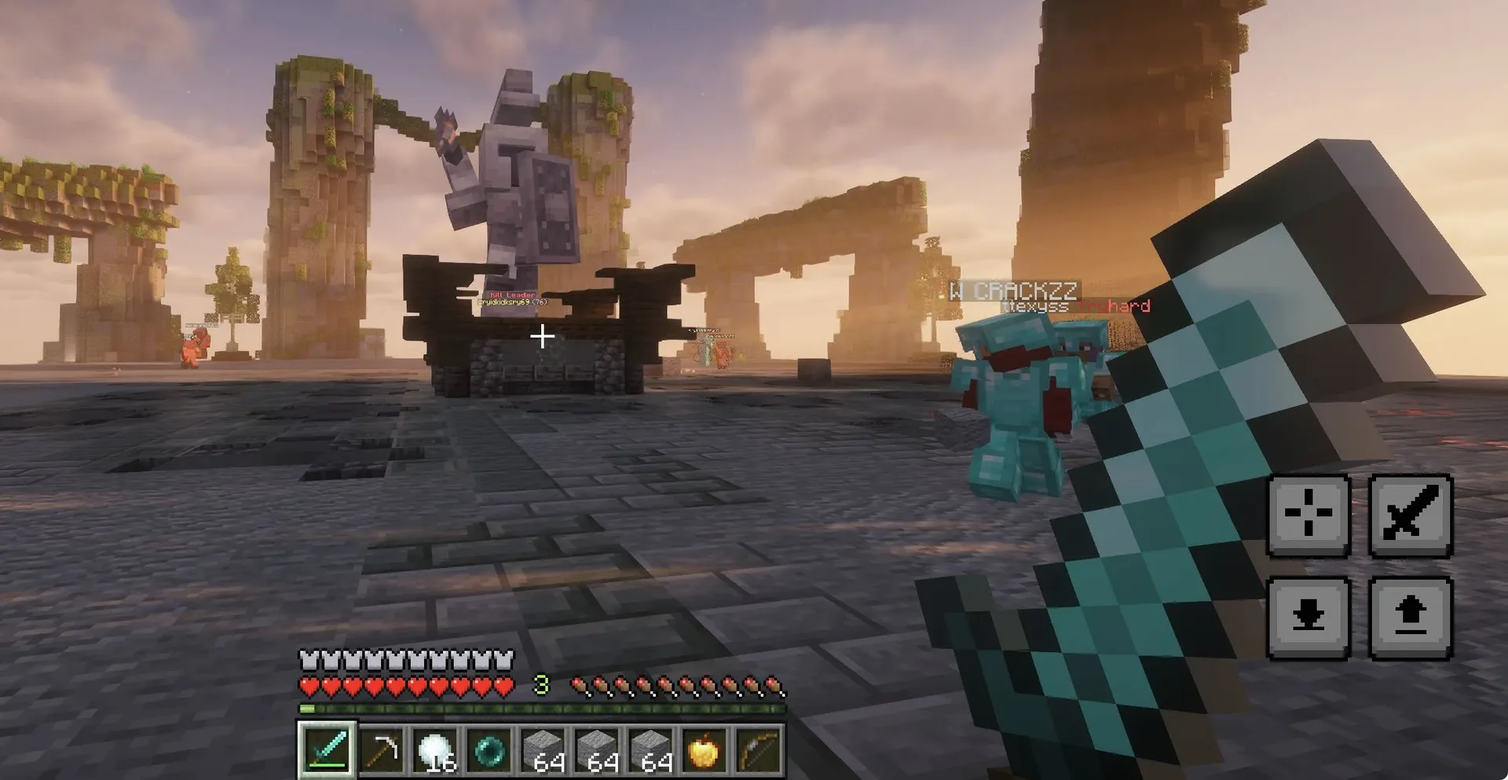
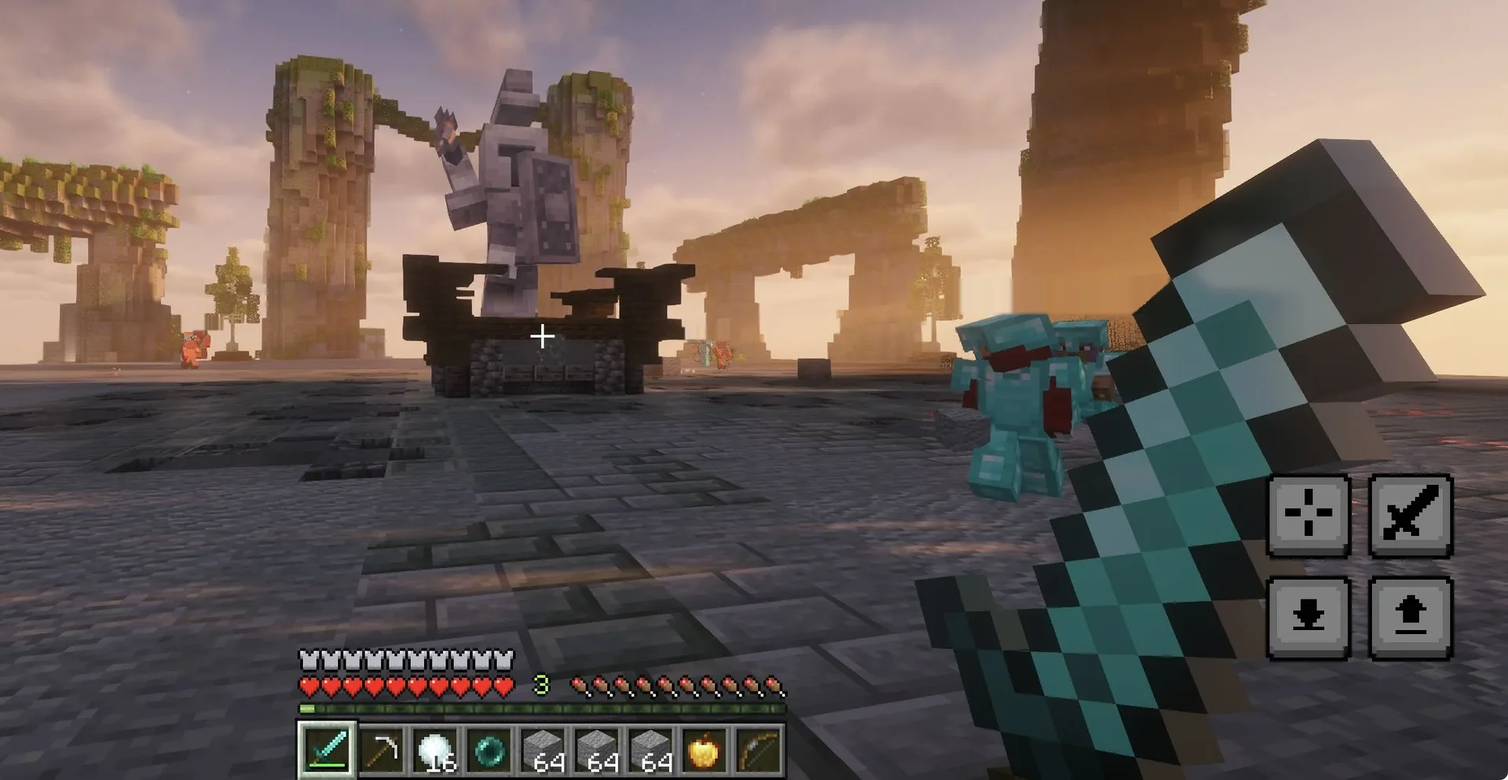
Fix the redesign's remaining issues and reduce its scale
Stop captures and type growing on large displays, remove other players'
names and a server scoreboard from the gameplay captures, and fix the
listed install dialog, docs navigation and keyboard gaps.

diff --git a/docs-theme/cinnabar.css b/docs-theme/cinnabar.css
@@ -96,7 +96,7 @@ html .page #mdbook-menu-bar { position: fixed; top: 0 !important; left: calc(var
 .section { padding-inline-start: 14px; }
 
 /* Reading column. */
-.content { padding: 56px 0 64px; overflow-y: visible; font-size: 17px; line-height: 1.68; }
+.content { padding: 56px 0 64px; overflow-y: visible; font-size: 16px; line-height: 1.65; }
 .content main { max-width: var(--content-max-width); color: var(--fg); }
 .content p, .content ol, .content ul { line-height: 1.68; }
 .content li { margin-block: 6px; }
@@ -104,13 +104,13 @@ html .page #mdbook-menu-bar { position: fixed; top: 0 !important; left: calc(var
 :target { scroll-margin-top: calc(var(--site-header-height) + 24px); }
 h1:target::before, h2:target::before, h3:target::before, h4:target::before, h5:target::before, h6:target::before, dt:target::before { display: none; }
 .content h1, .content h2, .content h3, .content h4, .content h5 { color: var(--ink); font-family: var(--sans); text-wrap: balance; }
-.content h1 { margin: 0 0 16px; font-size: clamp(34px, 4vw, 46px); font-weight: 700; line-height: 1.08; letter-spacing: -.032em; }
-.content h1 + p { color: var(--soft); font-size: 19px; line-height: 1.55; }
-.content h2 { margin-block: 56px 16px; padding-top: 40px; border-top: 1px solid var(--line); font-size: 28px; font-weight: 700; line-height: 1.18; letter-spacing: -.022em; }
-.content h3 { margin-block: 40px 12px; font-size: 21px; font-weight: 700; line-height: 1.25; letter-spacing: -.014em; }
-.content h4, .content h5 { margin-block: 32px 8px; font-size: 17px; font-weight: 700; line-height: 1.3; }
-.content .header:hover::after { content: "#"; margin-left: .35em; color: var(--quiet); font-weight: 400; }
-.content a:not(.header):not(.mobile-nav-chapters) { text-decoration: underline; text-decoration-color: #f27a6359; text-decoration-thickness: 1px; text-underline-offset: 3px; transition: text-decoration-color .15s ease-out; }
+.content h1 { margin: 0 0 16px; font-size: clamp(30px, 2.8vw, 38px); font-weight: 700; line-height: 1.08; letter-spacing: -.032em; }
+.content h1 + p { color: var(--soft); font-size: 17px; line-height: 1.55; }
+.content h2 { margin-block: 56px 16px; padding-top: 40px; border-top: 1px solid var(--line); font-size: 24px; font-weight: 700; line-height: 1.18; letter-spacing: -.022em; }
+.content h3 { margin-block: 40px 12px; font-size: 18px; font-weight: 700; line-height: 1.25; letter-spacing: -.014em; }
+.content h4, .content h5 { margin-block: 32px 8px; font-size: 16px; font-weight: 700; line-height: 1.3; }
+.content .header:hover::after, .content .header:focus-visible::after { content: "#"; margin-left: .35em; color: var(--quiet); font-weight: 400; }
+.content a:not(.header):not(.mobile-nav-chapters) { text-decoration: underline; text-decoration-color: color-mix(in srgb, var(--red-text) 35%, transparent); text-decoration-thickness: 1px; text-underline-offset: 3px; transition: text-decoration-color .15s ease-out; }
 .content a:not(.header):not(.mobile-nav-chapters):hover { text-decoration-color: currentColor; }
 .content hr { height: 1px; margin-block: 40px; border: 0; background: var(--line); }
 
@@ -174,15 +174,19 @@ ul#mdbook-searchresults span.teaser em { color: var(--ink); font-weight: 500; }
 /* Previous and next stay in the reading flow at every width. */
 .nav-wrapper { display: grid; grid-template-columns: repeat(2, minmax(0, 1fr)); gap: 16px; max-width: var(--content-max-width); margin: 56px auto 0; padding-top: 32px; border-top: 1px solid var(--line); }
 .nav-wrapper > div { display: none; }
-.mobile-nav-chapters, .mobile-nav-chapters:visited { display: flex; align-items: center; gap: 12px; float: none; width: auto; min-height: 64px; padding: 0 20px; border: 1px solid var(--line); border-radius: 10px; background: transparent; color: var(--ink); font: 500 16px/1.2 var(--sans); text-decoration: none; transition: background-color .15s ease-out, border-color .15s ease-out, transform .1s ease-out; }
+.mobile-nav-chapters, .mobile-nav-chapters:visited { display: grid; grid-template-columns: auto minmax(0, 1fr); align-items: center; align-content: center; gap: 2px 12px; text-align: left; float: none; width: auto; min-height: 72px; padding: 12px 20px; border: 1px solid var(--line); border-radius: 10px; background: transparent; color: var(--ink); font: 500 16px/1.2 var(--sans); text-decoration: none; transition: background-color .15s ease-out, border-color .15s ease-out, transform .1s ease-out; }
 .content a.mobile-nav-chapters:link, .content a.mobile-nav-chapters:visited { color: var(--ink); }
-.mobile-nav-chapters .fa-svg { color: var(--quiet); font-size: 14px; }
+.mobile-nav-chapters .fa-svg { grid-row: 1 / span 2; color: var(--quiet); font-size: 14px; }
+.mobile-nav-chapters .chapter-name { grid-area: 2 / 2; overflow-wrap: anywhere; }
+.mobile-nav-chapters::after { grid-area: 1 / 2; color: var(--quiet); font: 400 13px/1.3 var(--sans); }
 .mobile-nav-chapters:hover { border-color: var(--line-strong); background: var(--raise); }
 .mobile-nav-chapters:active { transform: translateY(1px); }
 .mobile-nav-chapters.previous { grid-column: 1; }
 .mobile-nav-chapters.previous::after { content: "Previous"; }
-.mobile-nav-chapters.next { grid-column: 2; flex-direction: row-reverse; right: auto; }
-.mobile-nav-chapters.next::after { content: "Next"; margin-left: auto; }
+.mobile-nav-chapters.next { grid-column: 2; grid-template-columns: minmax(0, 1fr) auto; right: auto; text-align: right; }
+.mobile-nav-chapters.next .fa-svg { grid-column: 2; }
+.mobile-nav-chapters.next .chapter-name, .mobile-nav-chapters.next::after { grid-column: 1; }
+.mobile-nav-chapters.next::after { content: "Next"; }
 
 /* Below the wide layout the sidebar is a drawer over the page, under the fixed header. */
 @media (max-width: 1079px) {
@@ -192,9 +196,9 @@ ul#mdbook-searchresults span.teaser em { color: var(--ink); font-weight: 500; }
 }
 @media (max-width: 700px) {
     :root, .navy, .light, .rust, .coal, .ayu { --page-padding: 20px; }
-    .content { padding-top: 36px; font-size: 16.5px; }
-    .content h1 + p { font-size: 18px; }
-    .content h2 { margin-top: 44px; padding-top: 32px; font-size: 25px; }
+    .content { padding-top: 36px; font-size: 16px; }
+    .content h1 + p { font-size: 17px; }
+    .content h2 { margin-top: 44px; padding-top: 32px; font-size: 22px; }
     .content pre { margin-inline: -8px; }
     .table-wrapper { margin-inline: -8px; }
 }
@@ -212,3 +216,10 @@ ul#mdbook-searchresults span.teaser em { color: var(--ink); font-weight: 500; }
     .site-header, #mdbook-menu-bar { display: none; }
     .page-wrapper { padding-top: 0; }
 }
+
+/* mdBook hides this checkbox, which leaves its sidebar toggle out of the keyboard order. */
+#mdbook-sidebar-toggle-anchor.hidden { display: block !important; position: fixed; top: 0; left: 0; width: 1px; height: 1px; margin: 0; opacity: 0; pointer-events: none; }
+#mdbook-sidebar-toggle-anchor:focus-visible ~ .page-wrapper #mdbook-sidebar-toggle { outline: 2px solid var(--focus); outline-offset: 2px; }
+
+/* Long code lines scroll inside their block; the visible bar says there is more. */
+.content pre, .content pre > code { scrollbar-width: thin; scrollbar-color: var(--line-strong) transparent; }

diff --git a/site-header.css b/site-header.css
@@ -16,10 +16,10 @@
   --ink: #f6f3ef;
   --soft: #d2cdc7;
   --quiet: #aaa49d;
-  --red-hover: #ca3125;
-  --red-press: #8f1c14;
-  --red-line: #e2483a;
-  --red-text: #f27a63;
+  --red-hover: color-mix(in oklab, var(--cinnabar-red) 90%, #fff);
+  --red-press: color-mix(in oklab, var(--cinnabar-red) 78%, #000);
+  --red-line: color-mix(in oklab, var(--cinnabar-red) 74%, #ffb199);
+  --red-text: color-mix(in oklab, var(--cinnabar-red) 44%, #ffb199);
   --focus: #fff;
   --gutter: clamp(16px, 4vw, 64px);
   --page: 1360px;
@@ -28,7 +28,7 @@
 
 html { scrollbar-color: var(--line-strong) var(--ground); scroll-padding-top: calc(var(--site-header-height) + 24px); }
 ::selection { background: var(--red-press); color: #fff; }
-input { caret-color: var(--red-text); }
+input, textarea { caret-color: var(--red-text); }
 
 .site-header { box-sizing: border-box; display: flex; align-items: center; justify-content: space-between; gap: 16px; height: var(--site-header-height); padding-inline: var(--gutter); border-bottom: 1px solid transparent; }
 .site-header a { box-sizing: border-box; transition: color .15s ease-out, background-color .15s ease-out, transform .1s ease-out; }
@@ -51,8 +51,8 @@ input { caret-color: var(--red-text); }
 @supports not (animation-timeline: scroll()) { .site .site-header { background: var(--ground); border-bottom-color: var(--line); } }
 
 /* The primary action on the home and mod pages. */
-.cta, a.download { display: inline-flex; align-items: center; justify-content: center; gap: 12px; min-height: 60px; padding: 0 28px; border: 0; border-radius: 10px; background: var(--cinnabar-red); box-shadow: inset 0 1px #ffffff2e, 0 12px 28px -12px #000c; color: #fff; font: 700 18px/1.2 var(--sans); letter-spacing: -.01em; text-decoration: none; cursor: pointer; transition: background-color .15s ease-out, transform .1s ease-out, box-shadow .15s ease-out; }
-.cta svg, a.download svg { width: 20px; height: 20px; flex: none; fill: currentColor; }
+.cta, a.download { display: inline-flex; align-items: center; justify-content: center; gap: 10px; min-height: 52px; padding: 0 24px; border: 0; border-radius: 10px; background: var(--cinnabar-red); box-shadow: inset 0 1px #ffffff2e, 0 12px 28px -12px #000c; color: #fff; font: 700 16px/1.2 var(--sans); letter-spacing: -.01em; text-decoration: none; cursor: pointer; transition: background-color .15s ease-out, transform .1s ease-out, box-shadow .15s ease-out; }
+.cta svg, a.download svg { width: 18px; height: 18px; flex: none; fill: currentColor; }
 .cta:hover, a.download:hover { background: var(--red-hover); }
 .cta:active, a.download:active { background: var(--red-press); box-shadow: inset 0 1px #0000004d; transform: translateY(1px); }
 .cta:focus-visible, a.download:focus-visible { outline: 2px solid var(--focus); outline-offset: 3px; }

diff --git a/tests/test_render.py b/tests/test_render.py
@@ -202,6 +202,44 @@ class RenderTests(unittest.TestCase):
         themes = list((self.output / "docs/modding").rglob("*.css"))
         self.assertTrue(any(rule in theme.read_text() for theme in themes))
 
+    def test_install_command_is_fully_readable(self):
+        """Wrap the Linux command in a multi-line field so no one pastes what they cannot read."""
+        RENDER.build(self.repository, self.output)
+        page = Page()
+        page.feed((self.output / "index.html").read_text())
+        fields = [(tag, attrs) for tag, attrs, _ in page.elements if attrs.get("id") == "install-command"]
+        self.assertEqual([tag for tag, _ in fields], ["textarea"])
+        self.assertIn("readonly", fields[0][1])
+
+    def test_each_capture_appears_once_on_the_home_page(self):
+        """Show the hero capture once and keep the caption its source gives it."""
+        RENDER.build(self.repository, self.output)
+        html = (self.output / "index.html").read_text()
+        self.assertEqual(html.count('src="/assets/gameplay/sunset.webp"'), 1)
+        self.assertIn("Sunset with a shader pack", html)
+
+    def test_mod_page_title_leads_with_the_logotype(self):
+        """Keep the accessible title reading Cinnabar Mod with the logotype as its first element."""
+        RENDER.build(self.repository, self.output)
+        page = Page()
+        page.feed((self.output / "mod/index.html").read_text())
+        logos = [attrs for tag, attrs, parents in page.elements
+                 if tag == "img" and any(parent == "h1" for parent, _ in parents)]
+        self.assertEqual([(logo["src"], logo["alt"]) for logo in logos], [("/title.png", "Cinnabar")])
+
+    def test_chapter_cards_name_their_destination(self):
+        """Rewrite each generated Previous and Next card with the linked chapter's title."""
+        book = self.root / "book"
+        (book / "guides").mkdir(parents=True)
+        (book / "guides/next.html").write_text("<title>The next one - Fixture Book</title>")
+        chapter = book / "guides/first.html"
+        chapter.write_text('<a rel="next prefetch" href="../guides/next.html" class="mobile-nav-chapters next" '
+                           'title="Next chapter" aria-label="Next chapter" aria-keyshortcuts="Right"><svg></svg></a>')
+        RENDER.label_chapter_links(book)
+        html = chapter.read_text()
+        self.assertIn('aria-label="Next chapter: The next one"', html)
+        self.assertIn('<span class="chapter-name">The next one</span><svg></svg>', html)
+
     def test_docs_link_is_in_the_main_navigation(self):
         """Give desktop and mobile the same accessible link to the book."""
         RENDER.build(self.repository, self.output)

diff --git a/render.py b/render.py
@@ -4,6 +4,7 @@
 import argparse
 import json
 import os
+import re
 from pathlib import Path
 import random
 import shutil
@@ -54,6 +55,25 @@ def build_book(repository, output, red, header):
             shutil.rmtree(destination)
         subprocess.run([str(executable), "build", str(staged), "--dest-dir", str(destination)],
                        env=environment, check=True)
+    label_chapter_links(destination)
+
+
+def label_chapter_links(book):
+    """Name the destination of each chapter's Previous and Next card, which mdBook leaves blank."""
+    card = re.compile(r'(<a rel="[^"]*" href="([^"#]+)[^"]*" class="mobile-nav-chapters (previous|next)" '
+                      r'title="[^"]*" aria-label=")[^"]*("[^>]*>)')
+    for page in book.rglob("*.html"):
+        def named(match):
+            """Rewrite one card from the title of the chapter it links to."""
+            target = (page.parent / match[2]).resolve()
+            source = re.search(r"<title>(.*?)</title>", target.read_text(), re.S)
+            name = source[1].rpartition(" - ")[0].strip() or source[1].strip()
+            direction = "Previous" if match[3] == "previous" else "Next"
+            return f'{match[1]}{direction} chapter: {name}{match[4]}<span class="chapter-name">{name}</span>'
+        html = page.read_text()
+        labelled = card.sub(named, html)
+        if labelled != html:
+            page.write_text(labelled)
 
 
 def build(repository, output):

diff --git a/DESIGN.md b/DESIGN.md
@@ -3,10 +3,10 @@ name: Cinnabar
 description: A familiar world. A new client.
 colors:
   cinnabar-red: "#B8281E"
-  red-hover: "#ca3125"
-  red-press: "#8f1c14"
-  red-line: "#e2483a"
-  red-text: "#f27a63"
+  red-hover: "color-mix(in oklab, #B8281E 90%, #fff)"
+  red-press: "color-mix(in oklab, #B8281E 78%, #000)"
+  red-line: "color-mix(in oklab, #B8281E 74%, #ffb199)"
+  red-text: "color-mix(in oklab, #B8281E 44%, #ffb199)"
   ground: "#141312"
   raise: "#1d1b1a"
   raise-2: "#292624"
@@ -26,45 +26,55 @@ colors:
   ground-veil: "#1413128c"
   raise-veil: "#1d1b1af0"
   backdrop: "#0b0a09c7"
+  hero-tint-centre: "#ad8f7c"
+  hero-tint-mid: "#cdb5a2"
+  hero-tint-edge: "#f0e4d8"
+  scrim-desktop-strong: "#2412098c"
+  scrim-desktop-soft: "#24120973"
+  scrim-phone-strong: "#241209d0"
+  scrim-phone-soft: "#241209c8"
+  logo-shadow: "#00000099"
+  text-shadow-strong: "#000000aa"
+  press-inset: "#0000004d"
   hover-wash: "#ffffff1a"
   press-wash: "#ffffff0f"
   hairline-on-capture: "#ffffff33"
   underline-rest: "#ffffff59"
-  underline-rest-docs: "#f27a6359"
+  underline-rest-docs: "color-mix(in srgb, #B8281E 35%, transparent)"
 typography:
   display:
     fontFamily: "Schibsted Grotesk, system-ui, sans-serif"
-    fontSize: "clamp(3.25rem, 8.6vw, 6rem)"
+    fontSize: "clamp(40px, 4vw, 56px)"
     fontWeight: 700
-    lineHeight: 0.98
-    letterSpacing: "-0.04em"
+    lineHeight: 1
+    letterSpacing: "-0.035em"
   headline-tagline:
     fontFamily: "Schibsted Grotesk, system-ui, sans-serif"
-    fontSize: "clamp(24px, 3.1vw, 44px)"
+    fontSize: "clamp(24px, 2.4vw, 34px)"
     fontWeight: 700
-    lineHeight: 1.12
+    lineHeight: 1.14
     letterSpacing: "-0.028em"
   headline-section:
     fontFamily: "Schibsted Grotesk, system-ui, sans-serif"
-    fontSize: "clamp(34px, 4.4vw, 60px)"
+    fontSize: "clamp(26px, 2.5vw, 34px)"
     fontWeight: 700
-    lineHeight: 1.04
+    lineHeight: 1.12
     letterSpacing: "-0.032em"
   headline-closing:
     fontFamily: "Schibsted Grotesk, system-ui, sans-serif"
-    fontSize: "clamp(30px, 4.2vw, 60px)"
+    fontSize: "clamp(26px, 2.6vw, 36px)"
     fontWeight: 700
-    lineHeight: 1.08
+    lineHeight: 1.12
     letterSpacing: "-0.032em"
   headline-chart:
     fontFamily: "Schibsted Grotesk, system-ui, sans-serif"
-    fontSize: "clamp(28px, 2.9vw, 40px)"
+    fontSize: "clamp(26px, 2.2vw, 32px)"
     fontWeight: 700
-    lineHeight: 1.08
+    lineHeight: 1.1
     letterSpacing: "-0.035em"
   headline-docs:
     fontFamily: "Schibsted Grotesk, system-ui, sans-serif"
-    fontSize: "clamp(34px, 4vw, 46px)"
+    fontSize: "clamp(30px, 2.8vw, 38px)"
     fontWeight: 700
     lineHeight: 1.08
     letterSpacing: "-0.032em"
@@ -155,6 +165,9 @@ typography:
     fontWeight: 400
     fontFeature: "tnum"
 rounded:
+  hairline: "1px"
+  marker-fine: "1.5px"
+  marker: "2px"
   focus: "4px"
   key: "5px"
   item: "6px"
@@ -184,8 +197,8 @@ components:
     textColor: "{colors.on-red}"
     typography: "{typography.action}"
     rounded: "{rounded.action}"
-    padding: "0 28px"
-    height: "60px"
+    padding: "0 24px"
+    height: "52px"
   button-primary-hover:
     backgroundColor: "{colors.red-hover}"
   button-primary-active:
@@ -194,7 +207,7 @@ components:
     backgroundColor: "{colors.cinnabar-red}"
     textColor: "{colors.on-red}"
     width: "56px"
-    height: "60px"
+    height: "52px"
   channel-menu:
     backgroundColor: "{colors.raise}"
     rounded: "{rounded.panel}"
@@ -326,12 +339,12 @@ A warm, slightly brown-black neutral range carrying a single red family drawn fr
 
 ### Primary
 - **Cinnabar Red** (#B8281E): The solid fill of the download actions on the home and mod pages. The value is the icon's body fill, read at render time from the client repository's icon, never set as a website constant.
-- **Lit Cinnabar** (#ca3125): Hover on the download actions.
-- **Pressed Cinnabar** (#8f1c14): Pressed download actions, text selection and search-result marks.
+- **Lit Cinnabar** (icon red mixed 10% toward white): Hover on the download actions.
+- **Pressed Cinnabar** (icon red mixed 22% toward black): Pressed download actions, text selection and search-result marks.
 
 ### Secondary
-- **Signal Red** (#e2483a): Red as a thin mark: the player chart line and point stroke, the current-page underline in the header, the checked channel radio, and the small active marker in the docs sidebar.
-- **Ember Text** (#f27a63): Red as readable text or icon: docs links, docs syntax keywords, docs warning callouts, footnote highlights, the risk notice's warning icon, and the input caret.
+- **Signal Red** (icon red mixed 26% toward #ffb199): Red as a thin mark: the player chart line and point stroke, the current-page underline in the header, the checked channel radio, and the small active marker in the docs sidebar.
+- **Ember Text** (icon red mixed 56% toward #ffb199): Red as readable text or icon: docs links, docs syntax keywords, docs warning callouts, footnote highlights, the risk notice's warning icon, and the input caret.
 
 ### Neutral
 - **Warm Ground** (#141312): The page, the book, the solid header, and inset fields inside dialogs. Also matches the browser theme color.
@@ -347,7 +360,7 @@ A warm, slightly brown-black neutral range carrying a single red family drawn fr
 - **Reading Ink** (#ece8e2) and **Code Ink** (#e6e1da): Slightly softened body and code text in the book, for long reading on the dark ground.
 - **Syntax set** (comment #a39d96, string #dcc9a3, number #efb7a4, type #c9c3bb): Warm, low-chroma docs highlighting, so code stays in the world and keywords are the only red.
 - **Veils and washes** (#1413128c, #1d1b1af0, #0b0a09c7, #ffffff1a, #ffffff0f, #ffffff33): Translucent versions for surfaces over captures, the modal backdrop, nav hover and press, and hairlines on imagery.
-- **Resting underlines** (#ffffff59, #f27a6359): Link underlines at rest, which rise to full color on hover.
+- **Resting underlines** (#ffffff59, Ember Text at 35%): Link underlines at rest, which rise to full color on hover.
 
 ### Named Rules
 
@@ -368,8 +381,8 @@ A warm, slightly brown-black neutral range carrying a single red family drawn fr
 Fonts are self-hosted: the grotesk at 400, 500 and 700, the mono at 400 and 500.
 
 ### Hierarchy
-- **Display** (700, up to 96px, 0.98): The typeset title of the mod page. The home page has no typeset display; its logotype image takes that role.
-- **Headline** (700, up to 60px, 1.04 to 1.12): Tagline, closing line, mod section heads, chart head and docs page title, each with its own clamp in the frontmatter, tracked between -0.028em and -0.035em.
+- **Display** (700, up to 56px, 1): The word "Mod" beside the logotype in the mod page title. The logotype image is the display object on every page.
+- **Headline** (700, up to 38px, 1.08 to 1.14): Tagline, closing line, mod section heads, chart head and docs page title, each with its own clamp in the frontmatter, tracked between -0.028em and -0.035em.
 - **Title** (700, 20px to 28px, 1.18 to 1.3): Dialog heads, catalog and step heads, fact heads, docs section heads, tracked -0.012em to -0.022em.
 - **Lead and live figure** (500, up to 28px, 1.28 to 1.3): The mod page's description and the current online count. Supporting leads use 400 at up to 20px and 1.5.
 - **Body** (400, 17px, 1.6): Default text. The book uses the same size at 1.68 in a 64ch column.
@@ -379,7 +392,7 @@ Fonts are self-hosted: the grotesk at 400, 500 and 700, the mono at 400 and 500.
 
 ### Named Rules
 
-**The One Voice Rule.** Schibsted Grotesk sets all prose, headlines and controls, up to the 96px mod title. The textured logotype image is the only other display object.
+**The One Voice Rule.** Schibsted Grotesk sets all prose, headlines and controls. The textured logotype image is the only other display object.
 
 **The Machine Values Rule.** JetBrains Mono is for commands, code, keys, chart axes and small catalog counters. Headline figures such as the online count and download total stay in the grotesk.
 
@@ -389,9 +402,9 @@ Fonts are self-hosted: the grotesk at 400, 500 and 700, the mono at 400 and 500.
 
 A centred page of up to 1360px inside a fluid gutter (16px to 64px), under a 64px header. Sizes use px throughout the shared styles because the book's root is 10px.
 
-The home page opens with a capture filling the full small viewport: logotype, tagline, edition line, split download and download count are centred in the free space, and the risk notice is pinned to the bottom edge of the opening. A live-data section, gallery and full-bleed closing capture follow. The mod page opens differently, with a typeset two-column head on the plain ground followed by an edge-to-edge capture; its catalog and layout heads repeat the same 7:5 split. The book is a fixed 288px sidebar and a 64ch reading column.
+Captures and type stop growing on large displays: the home capture renders at 125% of the window width or 186% of its height, whichever is larger, and headlines cap well below their old sizes, so a 2560px screen shows more of the world, not a bigger page. The home page opens with a capture filling the full small viewport: logotype, tagline, edition line, split download and download count are centred in the free space, and the risk notice is pinned to the bottom edge of the opening. A live-data section, gallery and full-bleed closing capture follow. The mod page opens differently, with a two-column head on the plain ground, the logotype and "Mod" beside the summary and download, followed by a framed capture capped at 1120px so it never upscales on a large display; its catalog and layout heads repeat the same 7:5 split. The book is a fixed 288px sidebar and a 64ch reading column.
 
-Vertical rhythm is large and even: 128px between major sections, falling to 80px at 900px and under, with 96px below the home opening and between gallery rows. Inside sections, spacing steps through 8, 12, 16, 24, 32, 40, 56 and 64px.
+Vertical rhythm is even: 88px to 96px between major sections, falling to 80px at 900px and under, with 72px between gallery rows. Inside sections, spacing steps through 8, 12, 16, 24, 32, 40, 56 and 64px.
 
 The gallery sits on a 12-column grid (6 columns at 900px and under). Images hang from different columns, and the outer ones bleed off the page edge, losing their outer corners as they do. The mod catalog runs four columns, then two, then one; list rows are separated by hairlines rather than boxed.
 
@@ -430,7 +443,7 @@ Restrained, gently rounded rectangles that scale with the object: 5px for keys a
 Tactile and confident on the one primary action, quiet everywhere else.
 
 - **Shape:** Softly rounded (10px) on primary; 8px on secondary controls.
-- **Primary:** Solid Cinnabar Red with white 700 text at 18px, 60px tall with 28px side padding and a filled download icon. On the home page it is a split button: the action plus a 56px channel toggle, divided by a dark hairline.
+- **Primary:** Solid Cinnabar Red with white 700 text at 16px, 52px tall with 24px side padding and a filled download icon. On the home page it is a split button: the action plus a 56px channel toggle, divided by a dark hairline.
 - **Hover / Focus:** Hover lightens the fill; press darkens it, flips the top light to shade and drops 1px. Color changes take .15s ease-out, the press .1s ease-out. Focus is a 2px white ring at 3px offset.
 - **Copy:** An inverted ink button with ground text (48px) beside the command field, turning pure white on hover.
 - **Icon close:** A transparent 44px square that gains Raise Two on hover.
@@ -469,7 +482,7 @@ A signature component. A wide bar (up to 880px, 12px radius) with a nearly opaqu
 A signature component. A thin Signal Red line (1.75px) over hairline gridlines, with mono tabular axis labels in Quiet Ink, an ink point with a red stroke, and a soft-ink cursor. Live counts above it are ink text with a small near-square ink marker. Empty live values stay hidden while holding their layout space; a missing chart shows a plain message between two hairlines.
 
 ### Screenshot Frame
-A clickable capture with a 1px hairline and 12px radius on Raise. Hover strengthens the border, lifts it 2px and adds the shot-hover shadow; press settles it. The edge-to-edge variant drops the frame entirely and fades into the page through a mask at top and bottom.
+A clickable capture with a 1px hairline and 12px radius on Raise. Hover strengthens the border, lifts it 2px and adds the shot-hover shadow; press settles it.
 
 ### Numbered Steps
 A single Raise panel (three columns divided by hairlines, stacking at 900px) for real sequential instructions, each led by a large ink numeral in tabular figures. The numeral is the only ornament.

diff --git a/README.md b/README.md
@@ -91,8 +91,9 @@ list in `mod.html.in`, when the mod's catalog or menu changes.
 
 `assets/gameplay/` holds in-game screenshots from the
 [client README](https://github.com/cinnabar-mc/cinnabar#readme), published at
-`/assets/gameplay/`. They are cropped to remove window title bars, and `pvp.webp` also
-to remove player chat and a debug overlay, and the crosshair is retouched out of
+`/assets/gameplay/`. They are cropped to remove window title bars, `pvp.webp` also to
+remove player chat and a debug overlay, and `forest.webp` also to remove a server
+scoreboard. Other players' names are retouched out of `pvp.webp`, and the crosshair out of
 `sunset.webp` because it opens the home page. Self-hosted fonts (Schibsted Grotesk and
 JetBrains Mono, both OFL) live in `assets/fonts/` beside their licenses and publish at `/assets/fonts/`.
 
